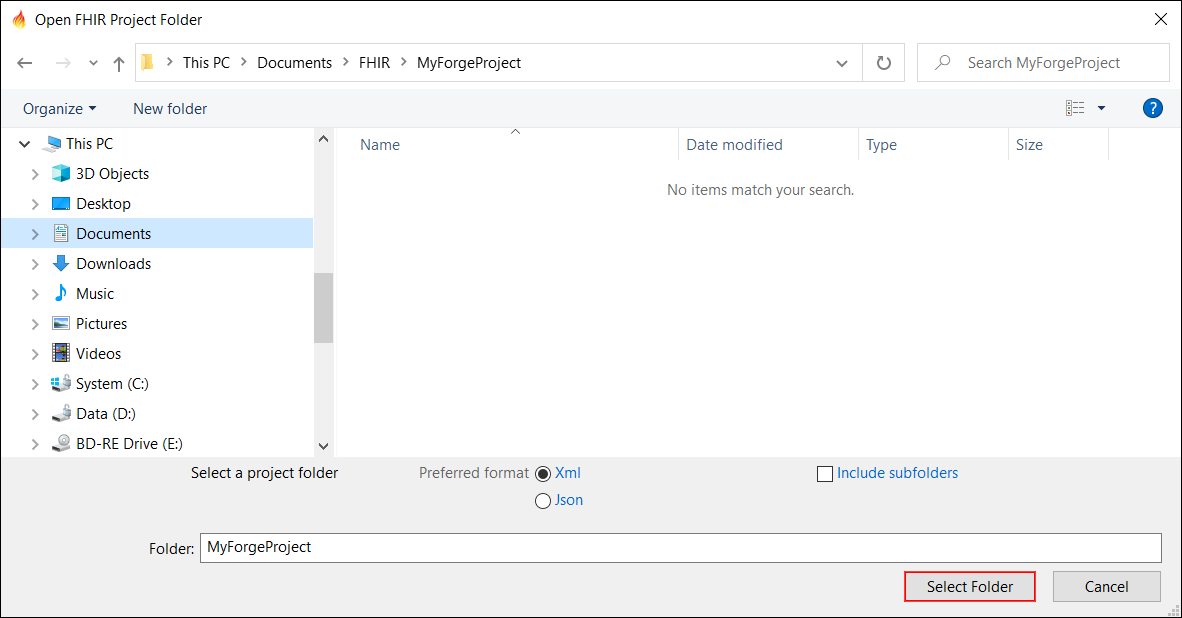
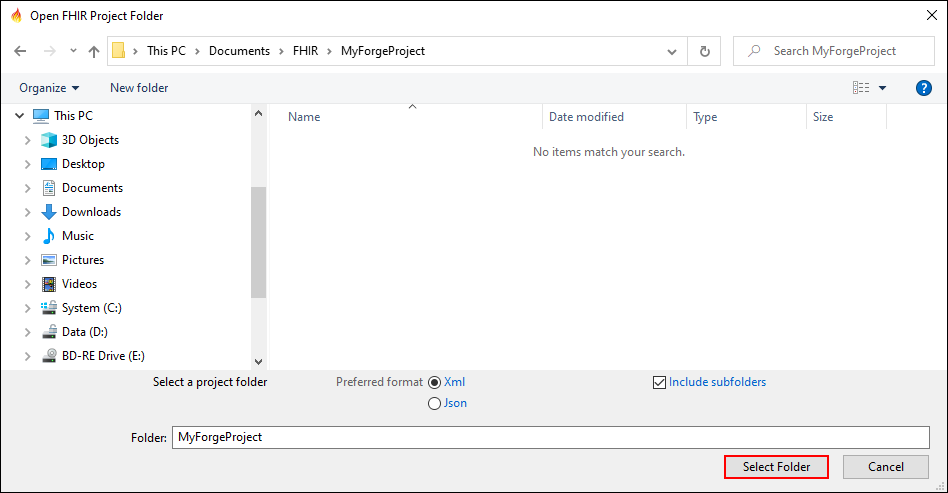
Updated 'Open a Project Folder' with Simplifier reference and updated paragraph on subfolder inclusion.

diff --git a/features/OpenaProjectFolder.rst b/features/OpenaProjectFolder.rst
@@ -3,9 +3,14 @@ Open a Project Folder
 
 When you want to start working in Forge, you will first need to open a
 project folder (i.e. the working directory containing your profiles).
+
 When you select an item from your recent documents, Forge will
-automatically open its associated project folder. In any other case
-click ``Open FHIR Project Folder...`` and select your working directory.
+automatically open its associated project folder. 
+
+.. attention:: When you already have a project on **Simplifier.net** or you want to start using Simplifier for your FHIR projects then read the chapter :ref:`integration-with-simplifier` first. 
+
+
+Click ``Open FHIR Project Folder...`` and select your working directory.
 
 .. figure:: ../images/OpenFolder.png
    :alt: Open a folder in Forge
@@ -15,15 +20,15 @@ Note that although Forge allows you to select any folder, it would be a
 very bad idea to select a general folder like
 **C:\Documents** as your project folder. If you are
 managing multiple projects it is good practice to organize all of your
-projects under the same parent folder: for example **FHIR**. If you
-don’t have a specific folder for your project, please create one. For
+projects under the same parent folder: for example **FHIR**.
+
+If you don’t have a specific folder for your project, please create one. For
 example, let’s open my project folder called **MyForgeProject**.
-By default subdirectories are not included. Select this option to
-include all subdirectories of the selected folder. This may be
-convenient if you want to organize your profiles in separate folders,
-but still want to be able to edit them in the same project. On the other
-hand, if you have a subdirectory containing old versions of your
-profiles, it would be better to ignore the subdirectory.
+By default subdirectories are included. 
+
+Deselect the option if you want to exclude all subdirectories of the selected folder. This may be
+convenient if you have a subdirectory containing old versions of your
+profiles. In that case it would be better to ignore the subdirectory.
 
 .. figure:: ../images/SelectFolder.png
    :alt: Select a folder in Forge

diff --git a/features/IntegrationwithSimplifier.rst b/features/IntegrationwithSimplifier.rst
@@ -1,3 +1,5 @@
+.. _integration-with-simplifier:
+
 Integration with Simplifier
 ===========================
 
